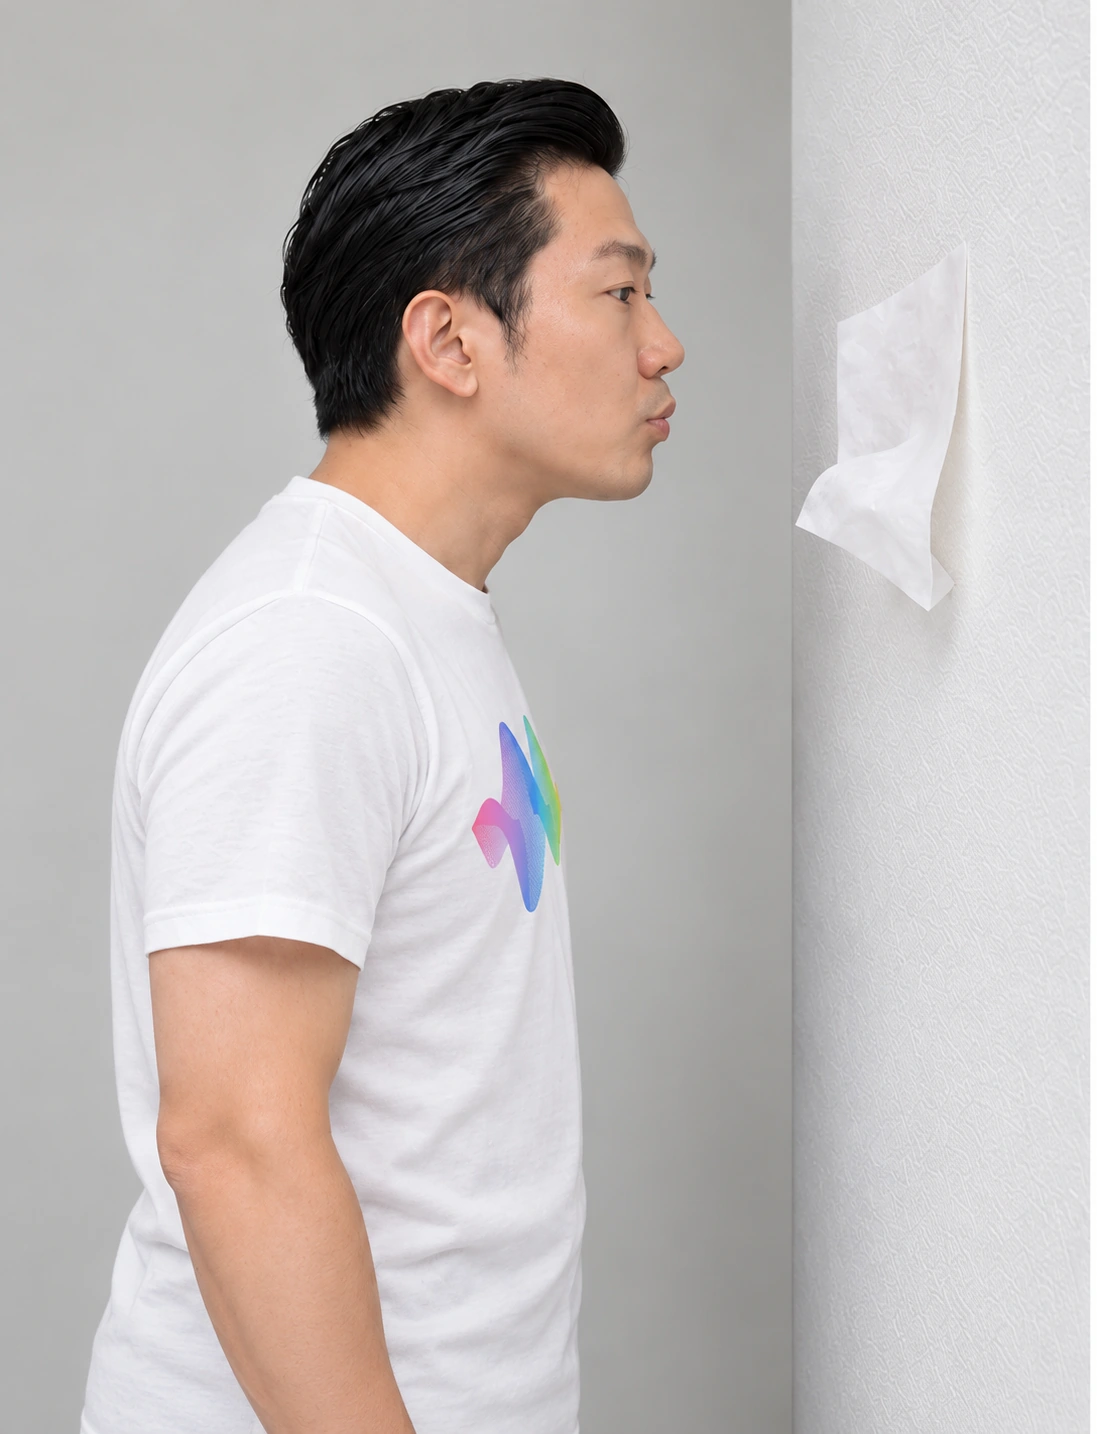
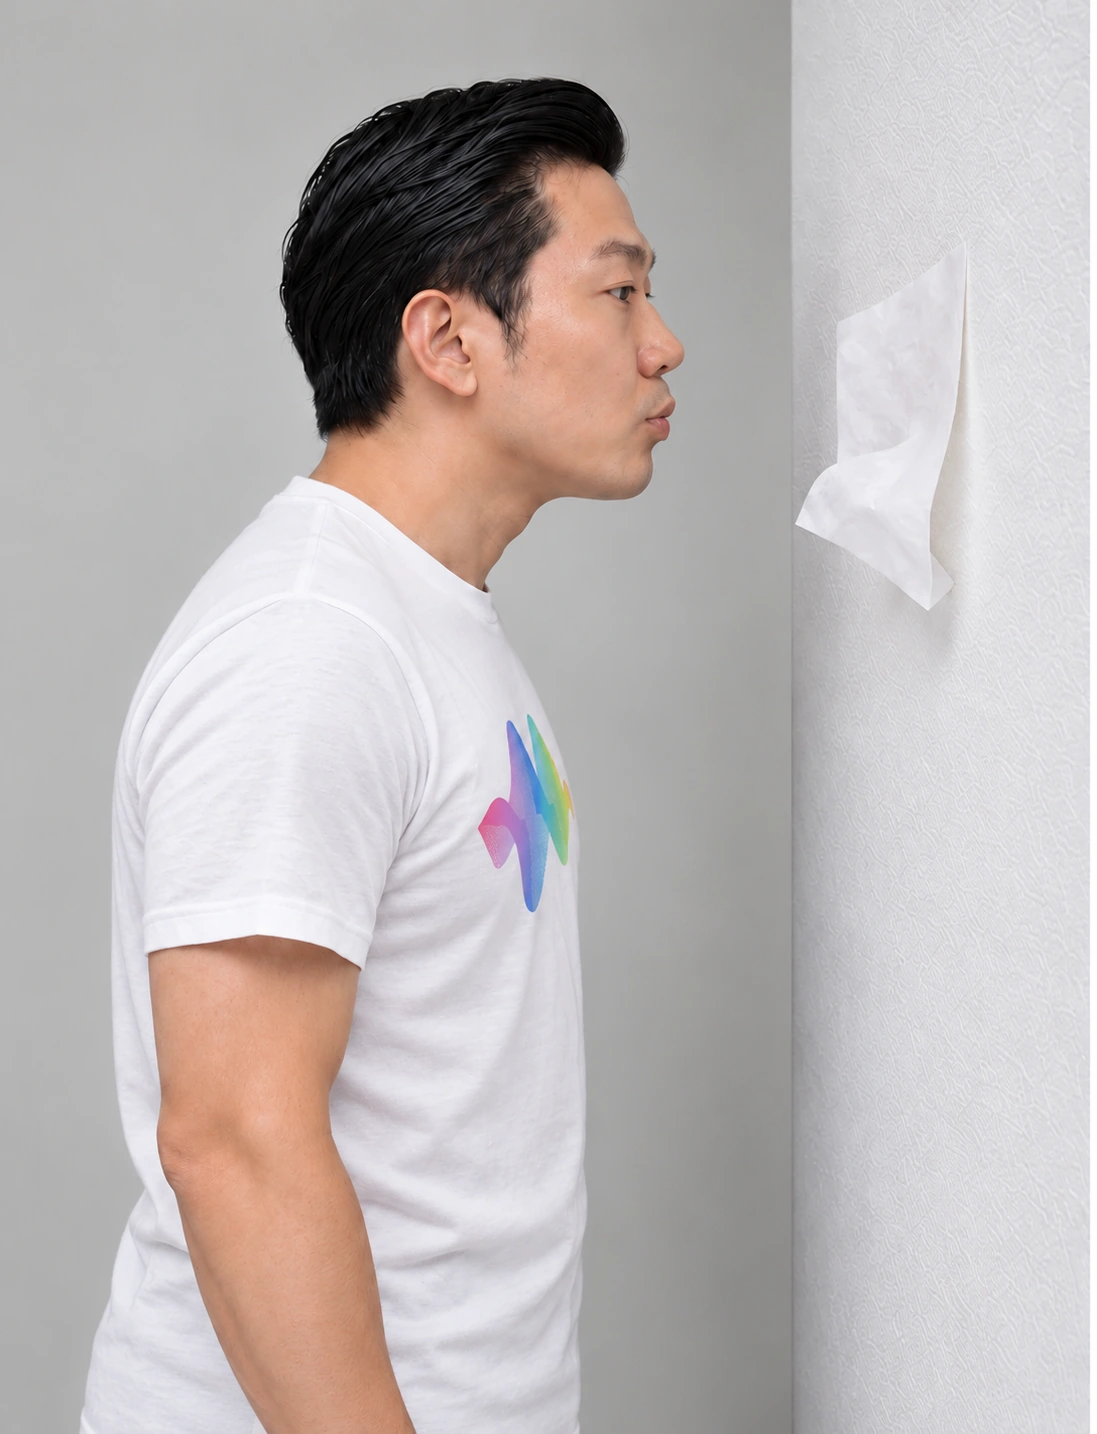
Narrow humming shoulders and refine male facial and chest contours

diff --git a/site/guitar/handbook-print.html b/site/guitar/handbook-print.html
@@ -179,7 +179,7 @@ a{color:inherit;text-decoration:none}
 
 <script src="songs.js?v=20261014h"></script>
 <script src="../assets/ps-audio.js?v=20261014s"></script>
-<script src="guitar.js?v=20261015faces2"></script>
+<script src="guitar.js?v=20261015contour4"></script>
 <script src="https://cdnjs.cloudflare.com/ajax/libs/marked/12.0.2/marked.min.js"></script>
 <script src="https://cdnjs.cloudflare.com/ajax/libs/qrcodejs/1.0.0/qrcode.min.js"></script>
 <script>
@@ -188,7 +188,7 @@ a{color:inherit;text-decoration:none}
   var COLOR = ['', '#e8412b', '#e2407f', '#8a4fc0', '#2f5fc4', '#2f8fc4', '#4f9e3a', '#b5a400', '#e08a12', '#e8412b', '#e2407f', '#8a4fc0', '#2f8fc4'];
   var DESC = ['', '認識吉他的起源與各部位名稱，將六條琴弦調準', '閱讀六線譜，讓左右手協調合作', '四個和弦，就能彈奏大量的流行歌曲', '學會右手刷法，讓歌曲產生律動', '為華爾滋與慢歌設計伴奏', '分析歌曲段落，學會使用 Capo', '理解和弦的組成，學會基本指法', '掌握封閉和弦的按壓位置', '讓伴奏行進的低音線', '理解和弦總是結伴出現的原因', '搥弦、勾弦、滑弦、悶音、推弦，讓吉他開口說話', '找到自己的調，創作一首自己的歌'];
   var main = document.getElementById('content'), toc = document.getElementById('toc');
-  fetch('handbook.md?v=20261015faces2').then(function (r) { return r.text(); }).then(function (md) {
+  fetch('handbook.md?v=20261015contour4').then(function (r) { return r.text(); }).then(function (md) {
     var tmp = document.createElement('div'); tmp.innerHTML = marked.parse(md, { gfm: true });
     // 拿掉文件標題與署名行，改用封面
     var h1 = tmp.querySelector('h1'); if (h1) { var nx = h1.nextElementSibling; h1.remove(); if (nx && nx.tagName === 'P') nx.remove(); }

diff --git a/site/guitar/guitar.js b/site/guitar/guitar.js
@@ -446,7 +446,7 @@
   function postureSVG() {
     return '<svg class="gfig" viewBox="0 0 620 330" role="img" aria-label="木吉他坐姿：坐在椅子前三分之一，背部自然挺直，琴身靠近身體並置於右大腿，琴頸微微上揚">' +
       '<defs><clipPath id="posture-photo-clip"><rect x="0" y="28" width="390" height="260" rx="12"/></clipPath></defs>' +
-      '<image href="' + GUITAR_TEACHING + 'guitar-posture-white.webp?v=20261015faces2" x="0" y="28" width="390" height="260" preserveAspectRatio="xMidYMid slice" clip-path="url(#posture-photo-clip)"/>' +
+      '<image href="' + GUITAR_TEACHING + 'guitar-posture-white.webp?v=20261015contour4" x="0" y="28" width="390" height="260" preserveAspectRatio="xMidYMid slice" clip-path="url(#posture-photo-clip)"/>' +
       '<path d="M14 55 L98 94 M166 111 L298 147 M270 236 L145 220 M180 274 L276 267" class="lead" stroke-width="2"/>' +
       '<circle cx="98" cy="94" r="4" class="dot"/><circle cx="298" cy="147" r="4" class="dot"/><circle cx="145" cy="220" r="4" class="dot"/><circle cx="276" cy="267" r="4" class="dot"/>' +
       '<text x="414" y="72" class="big" style="fill:var(--accent)">01</text><text x="446" y="72">背部自然挺直</text>' +

diff --git a/site/guitar/handbook.html b/site/guitar/handbook.html
@@ -66,7 +66,7 @@
 <script src="../assets/config.js?v=20261014h"></script>
 <script src="../assets/backend.js?v=20261016c"></script>
 <script src="../assets/ps-audio.js?v=20261014s"></script>
-<script src="guitar.js?v=20261015faces2"></script>
+<script src="guitar.js?v=20261015contour4"></script>
 <script src="https://cdnjs.cloudflare.com/ajax/libs/marked/12.0.2/marked.min.js"></script>
 <script>window.GUITAR_READY = [1, 2, 3, 4, 5, 6, 7, 8, 9, 10, 11, 12];</script>
 <script>
@@ -74,7 +74,7 @@
   var NUM = { '一': 1, '二': 2, '三': 3, '四': 4, '五': 5, '六': 6, '七': 7, '八': 8, '九': 9, '十': 10, '十一': 11, '十二': 12 };
   var COLOR = ['', '#e8412b', '#e2407f', '#9a5fd0', '#2f5fc4', '#45b3e6', '#6cbb4b', '#d6e03a', '#f4a62a', '#e8412b', '#e2407f', '#9a5fd0', '#45b3e6'];
   var main = document.getElementById('content'), toc = document.getElementById('toc'), prog = document.getElementById('progress');
-  fetch('handbook.md?v=20261015faces2')
+  fetch('handbook.md?v=20261015contour4')
     .then(function (r) { if (!r.ok) throw new Error(r.status); return r.text(); })
     .then(function (md) {
       main.innerHTML = marked.parse(md, { gfm: true });

diff --git a/site/vocal/handbook-print.html b/site/vocal/handbook-print.html
@@ -160,7 +160,7 @@ a{color:inherit;text-decoration:none}
   var COLOR = ['', '#e8412b', '#e2407f', '#8a4fc0', '#2f8fc4', '#4f9e3a', '#b5a400'];
   var DESC = ['', '理解聲音的形成與擴大，認識好主唱的條件', '找到歌唱氣息的來源，讓氣息穩定又持久', '讓聲音更明亮、更厚實、傳得更遠', '讓每個字都清楚又圓潤', '將技巧轉化為歌曲的表情', '找到適合自己的歌曲與演唱的調'];
   var main = document.getElementById('content'), toc = document.getElementById('toc');
-  fetch('course-handbook.md?v=20261015tongue3').then(function (r) { return r.text(); }).then(function (md) {
+  fetch('course-handbook.md?v=20261015contour4').then(function (r) { return r.text(); }).then(function (md) {
     var tmp = document.createElement('div'); tmp.innerHTML = marked.parse(md, { gfm: true });
     // 拿掉文件標題與署名行，改用封面
     var h1 = tmp.querySelector('h1'); if (h1) { var nx = h1.nextElementSibling; h1.remove(); if (nx && nx.tagName === 'P') nx.remove(); }

diff --git a/site/guitar/ch01/index.html b/site/guitar/ch01/index.html
@@ -493,10 +493,10 @@
 <script src="../../assets/config.js?v=20261015visual1"></script>
 <script src="../../assets/backend.js?v=20261015visual1"></script>
 <script src="../../assets/ps-audio.js?v=20261015visual1"></script>
-<script src="../guitar.js?v=20261015faces2"></script>
+<script src="../guitar.js?v=20261015contour4"></script>
 <script src="../songs.js?v=20261015visual1"></script>
 <script src="../../assets/youtube.js?v=20261016a"></script>
-<script src="../../assets/teaching/manifest.js?v=20261015faces2"></script>
-<script src="../../assets/teaching-visuals.js?v=20261015faces2"></script>
+<script src="../../assets/teaching/manifest.js?v=20261015contour4"></script>
+<script src="../../assets/teaching-visuals.js?v=20261015contour4"></script>
 </body>
 </html>

diff --git a/site/studio.html b/site/studio.html
@@ -140,7 +140,7 @@
 <div class="section-index">03 / The Teacher</div>
 <div class="teacher">
 <figure class="teacher-portrait">
-<img src="assets/teaching/teacher-leo-white.webp?v=20261015faces2" alt="教學示意插畫：阿勳老師穿著白色聲紋印花 T-shirt，抱著彩色吉他彈奏" width="1100" height="688" loading="lazy">
+<img src="assets/teaching/teacher-leo-white.webp?v=20261015contour4" alt="教學示意插畫：阿勳老師穿著白色聲紋印花 T-shirt，抱著彩色吉他彈奏" width="1100" height="688" loading="lazy">
 <figcaption>第六屆清水吉他社長／蔡昀庭繪製</figcaption>
 </figure>
 <div class="teacher-copy">

diff --git a/site/vocal/handbook.html b/site/vocal/handbook.html
@@ -69,7 +69,7 @@
   var NUM = { '一': 1, '二': 2, '三': 3, '四': 4, '五': 5, '六': 6 };
   var COLOR = ['', '#e8412b', '#e2407f', '#9a5fd0', '#45b3e6', '#6cbb4b', '#e3d83a'];
   var main = document.getElementById('content'), toc = document.getElementById('toc'), prog = document.getElementById('progress');
-  fetch('course-handbook.md?v=20261015tongue3')
+  fetch('course-handbook.md?v=20261015contour4')
     .then(function (r) { if (!r.ok) throw new Error(r.status); return r.text(); })
     .then(function (md) {
       main.innerHTML = marked.parse(md, { gfm: true });

diff --git a/site/vocal/slides/lesson-02/index.html b/site/vocal/slides/lesson-02/index.html
@@ -396,7 +396,7 @@
 <script src="../../../assets/youtube.js?v=20261016a"></script>
 <script src="../../../assets/config.js?v=20261014v"></script>
 <script src="../../../assets/backend.js?v=20261015b"></script>
-<script src="../../../assets/teaching/manifest.js?v=20261015tongue3"></script>
-<script src="../../../assets/teaching-visuals.js?v=20261015tongue3"></script>
+<script src="../../../assets/teaching/manifest.js?v=20261015contour4"></script>
+<script src="../../../assets/teaching-visuals.js?v=20261015contour4"></script>
 </body>
 </html>

diff --git a/site/vocal/slides/lesson-03/index.html b/site/vocal/slides/lesson-03/index.html
@@ -403,7 +403,7 @@
 <script src="../../../assets/youtube.js?v=20261016a"></script>
 <script src="../../../assets/config.js?v=20261014v"></script>
 <script src="../../../assets/backend.js?v=20261015b"></script>
-<script src="../../../assets/teaching/manifest.js?v=20261015faces2"></script>
-<script src="../../../assets/teaching-visuals.js?v=20261015faces2"></script>
+<script src="../../../assets/teaching/manifest.js?v=20261015contour4"></script>
+<script src="../../../assets/teaching-visuals.js?v=20261015contour4"></script>
 </body>
 </html>

diff --git a/site/guitar/ch02/index.html b/site/guitar/ch02/index.html
@@ -446,7 +446,7 @@
 <script src="../../assets/config.js?v=20261015visual1"></script>
 <script src="../../assets/backend.js?v=20261015visual1"></script>
 <script src="../../assets/ps-audio.js?v=20261015visual1"></script>
-<script src="../guitar.js?v=20261015faces2"></script>
+<script src="../guitar.js?v=20261015contour4"></script>
 <script src="../songs.js?v=20261015visual1"></script>
 <script src="../../assets/youtube.js?v=20261016a"></script>
 <script src="../../assets/teaching/manifest.js?v=20261015faces2"></script>

diff --git a/site/guitar/ch03/index.html b/site/guitar/ch03/index.html
@@ -488,7 +488,7 @@
 <script src="../../assets/config.js?v=20261015visual1"></script>
 <script src="../../assets/backend.js?v=20261015visual1"></script>
 <script src="../../assets/ps-audio.js?v=20261015visual1"></script>
-<script src="../guitar.js?v=20261015faces2"></script>
+<script src="../guitar.js?v=20261015contour4"></script>
 <script src="../songs.js?v=20261015visual1"></script>
 <script src="../../assets/youtube.js?v=20261016a"></script>
 <script src="../../assets/teaching/manifest.js?v=20261015faces2"></script>

diff --git a/site/guitar/ch04/index.html b/site/guitar/ch04/index.html
@@ -449,7 +449,7 @@
 <script src="../../assets/config.js?v=20261015visual1"></script>
 <script src="../../assets/backend.js?v=20261015visual1"></script>
 <script src="../../assets/ps-audio.js?v=20261015visual1"></script>
-<script src="../guitar.js?v=20261015faces2"></script>
+<script src="../guitar.js?v=20261015contour4"></script>
 <script src="../songs.js?v=20261015visual1"></script>
 <script src="../../assets/youtube.js?v=20261016a"></script>
 <script src="../../assets/teaching/manifest.js?v=20261015faces2"></script>
